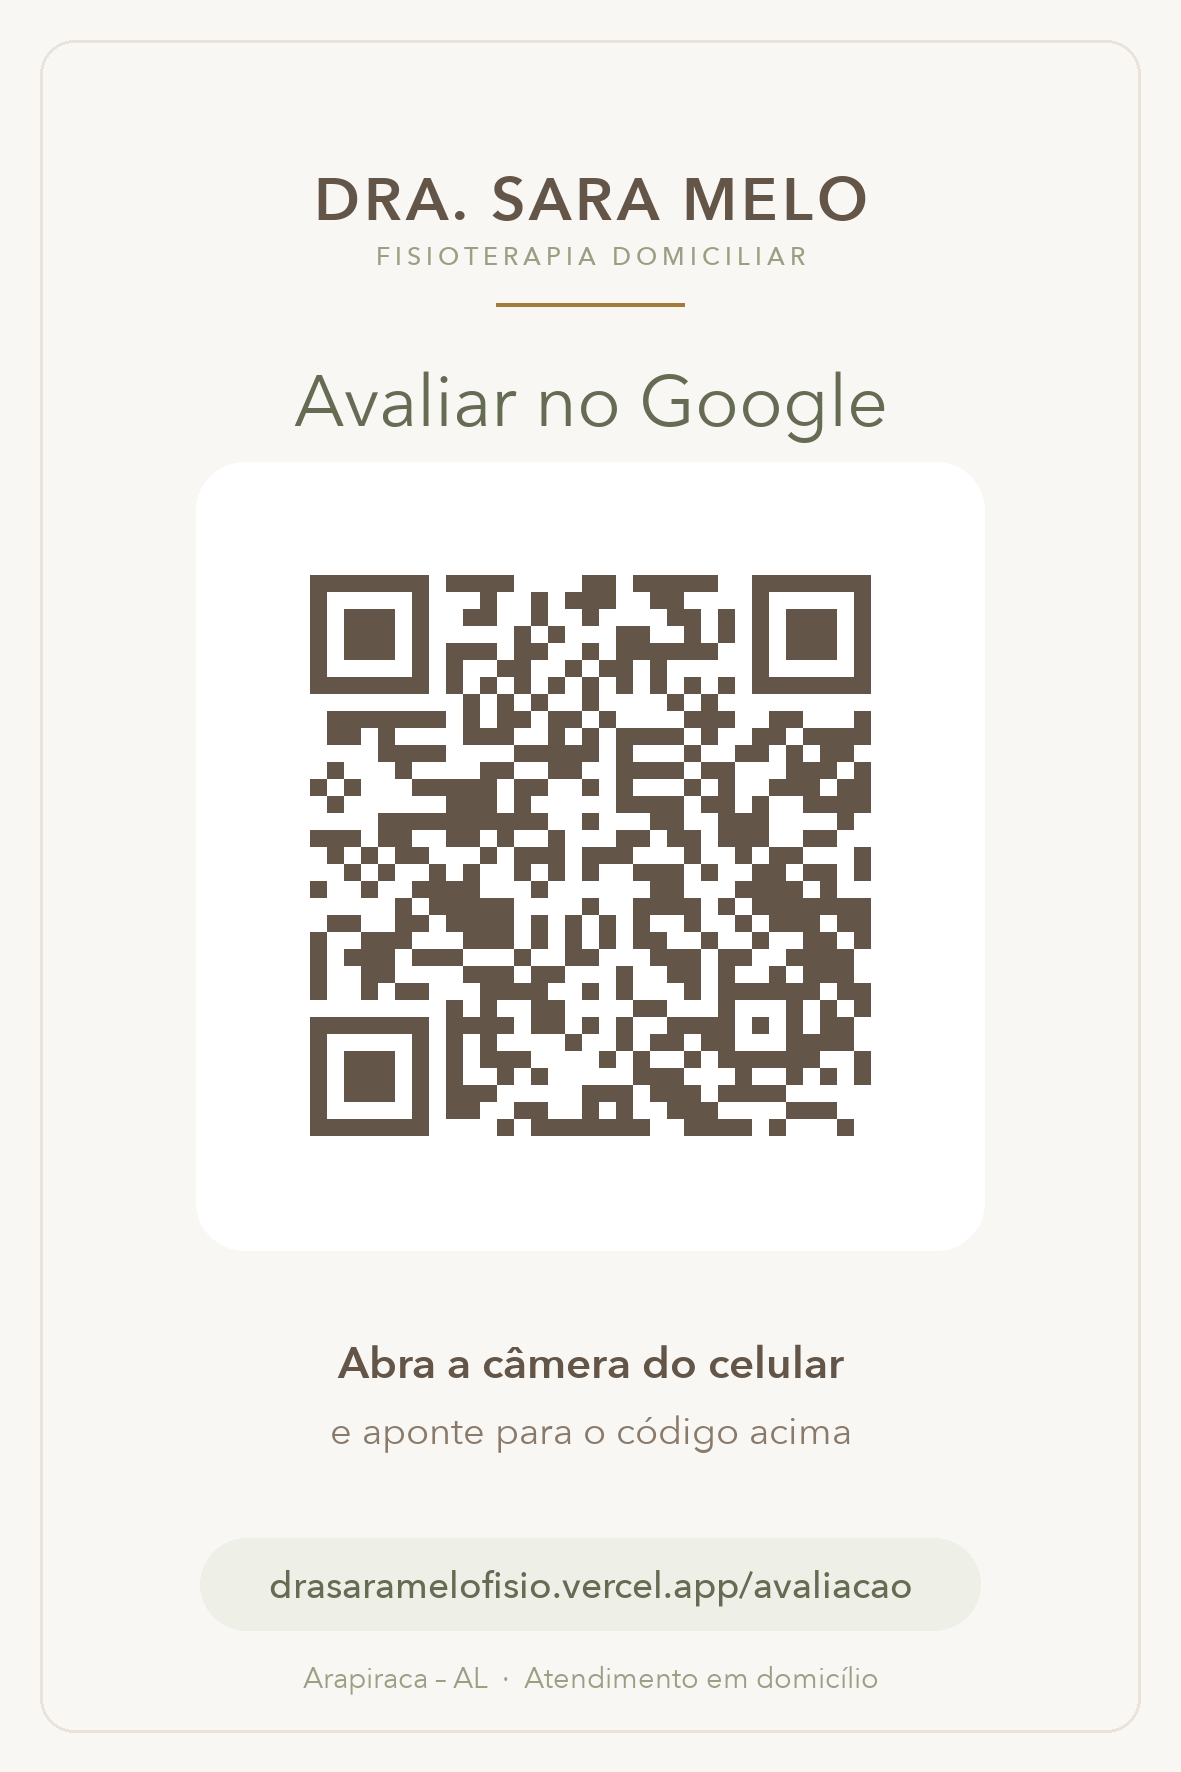
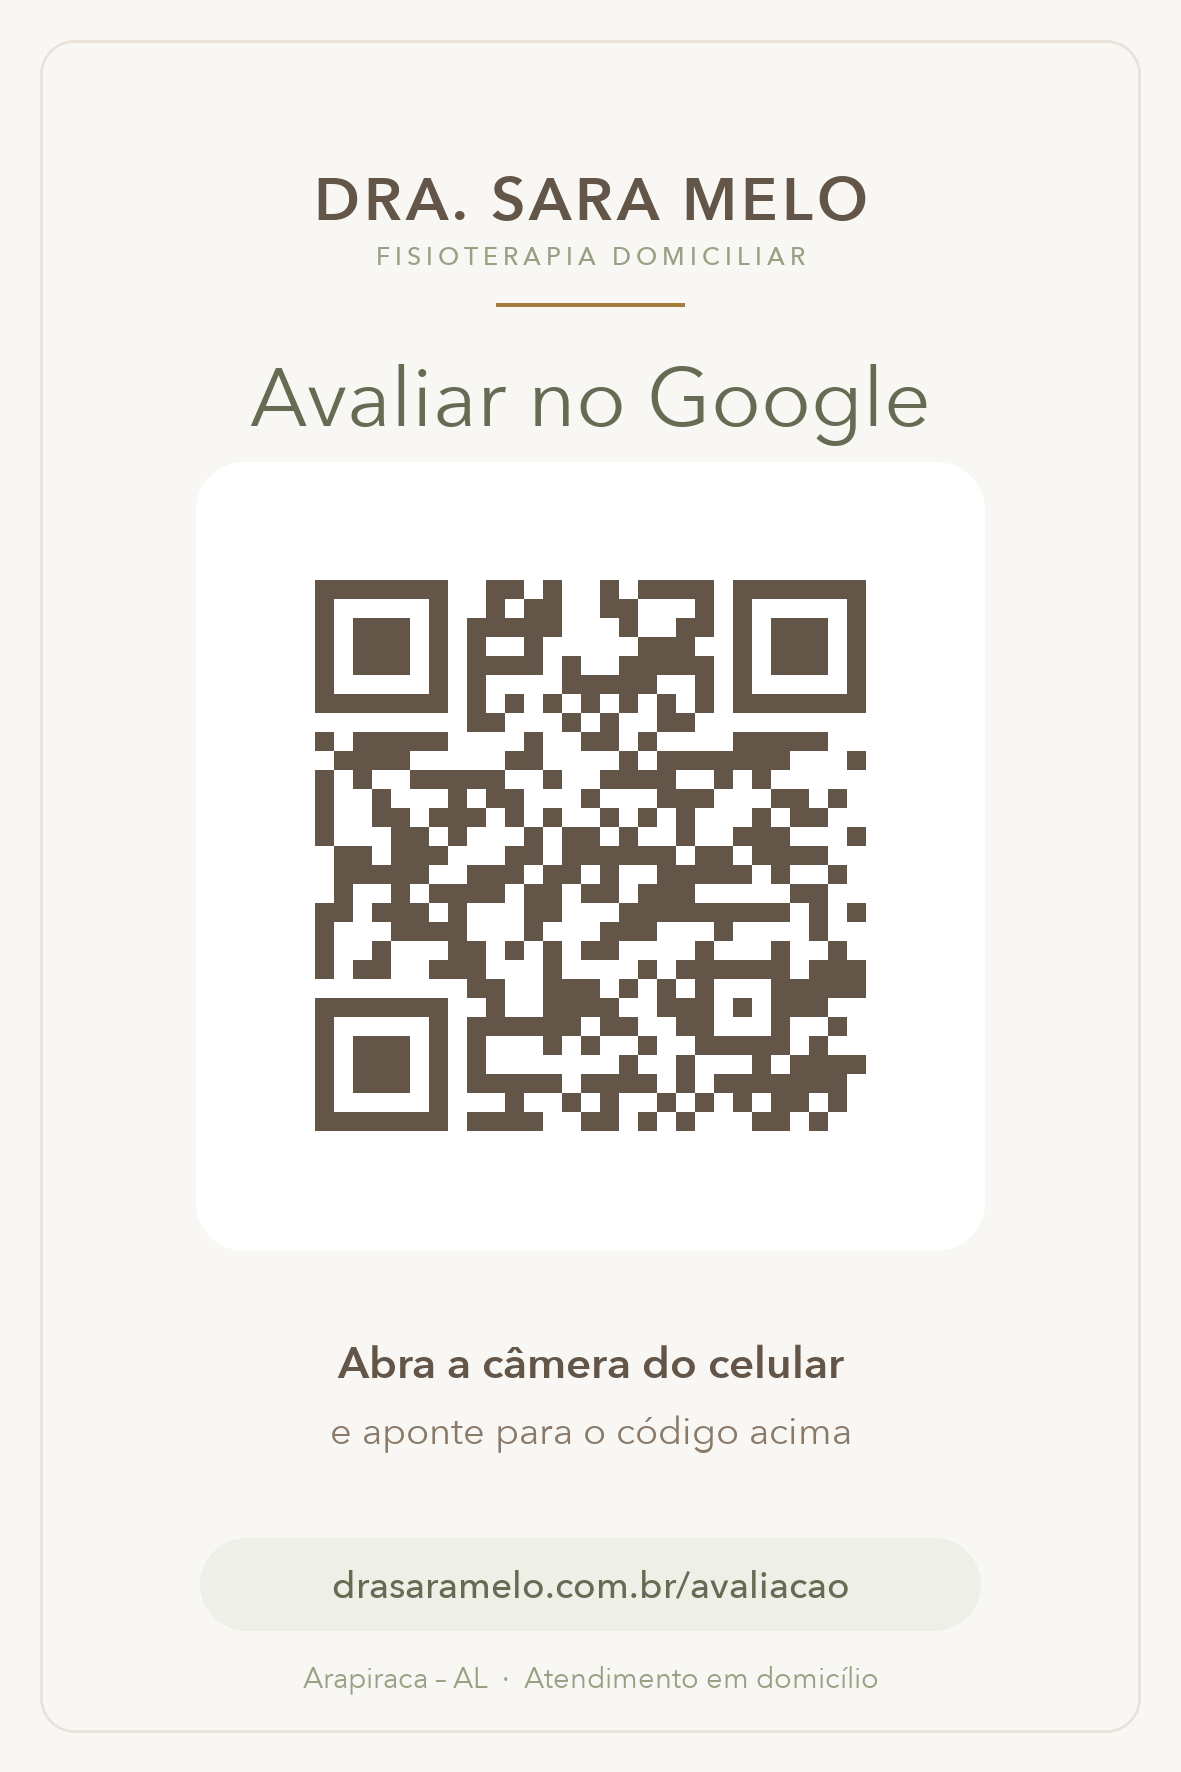
Horário e cobertura conforme a Sara, e QR codes no domínio novo
Horário: 08h às 11h, segunda a sexta — o que ela respondeu em 14/10.
Estava 07h às 18h no site, na seção de contato, no rodapé e nos dados
estruturados.

Cobertura: só Arapiraca, todos os bairros. Saem Craíbas, Lagoa da
Canoa, Coité do Nóia e Girau do Ponciano da lista e do areaServed —
aquelas cidades vieram do meu rascunho, não da fala dela.

QR codes: site, linktree e avaliação regerados para drasaramelo.com.br.
O de WhatsApp não mudou, porque aponta para wa.me. Os três novos foram
verificados módulo a módulo contra a URL de destino. O título do cartão
agora se ajusta sozinho para não encostar na moldura do código.

Também aponta o "Voltar para o site" de /avaliacao para o domínio novo.

Changed region(s): [[0.2439, 0.3104, 0.7621, 0.6518], [0.2134, 0.1862, 0.7925, 0.2483], [0.2439, 0.8691, 0.7621, 0.9001]]

diff --git a/index-hero-centralizado.html b/index-hero-centralizado.html
@@ -40,11 +40,7 @@
       "addressCountry": "BR"
     },
     "areaServed": [
-      { "@type": "City", "name": "Arapiraca" },
-      { "@type": "City", "name": "Craíbas" },
-      { "@type": "City", "name": "Coité do Nóia" },
-      { "@type": "City", "name": "Lagoa da Canoa" },
-      { "@type": "City", "name": "Girau do Ponciano" }
+      { "@type": "City", "name": "Arapiraca" }
     ],
     "availableService": [
       { "@type": "MedicalTherapy", "name": "Reabilitação pós-AVC em domicílio" },
@@ -56,8 +52,8 @@
     "openingHoursSpecification": [{
       "@type": "OpeningHoursSpecification",
       "dayOfWeek": ["Monday", "Tuesday", "Wednesday", "Thursday", "Friday"],
-      "opens": "07:00",
-      "closes": "18:00"
+      "opens": "08:00",
+      "closes": "11:00"
     }],
     "sameAs": ["https://www.instagram.com/fisio.saramello/"]
   }
@@ -934,10 +930,9 @@
             Onde eu atendo
           </h2>
           <p class="mt-8 text-base leading-[1.85] text-bark-600">
-            Atendo em domicílio em <strong class="font-semibold text-bark-800">Arapiraca</strong> e em cidades da região. Se o seu bairro não estiver na lista, me pergunte mesmo assim — dependendo da agenda e da distância, consigo encaixar.
+            Atendo em domicílio em <strong class="font-semibold text-bark-800">Arapiraca</strong>, em todos os bairros. Se você não tem certeza se chego até a sua rua, me pergunte — dependendo da agenda e da distância, consigo encaixar.
           </p>
 
-          <!-- CONFERIR: bairros reais atendidos -->
           <div class="mt-8 flex flex-wrap gap-2">
             <span class="rounded-full border border-sand-400 bg-white/80 px-4 py-2 text-sm text-bark-600">Centro</span>
             <span class="rounded-full border border-sand-400 bg-white/80 px-4 py-2 text-sm text-bark-600">Alto do Cruzeiro</span>
@@ -946,10 +941,6 @@
             <span class="rounded-full border border-sand-400 bg-white/80 px-4 py-2 text-sm text-bark-600">Primavera</span>
             <span class="rounded-full border border-sand-400 bg-white/80 px-4 py-2 text-sm text-bark-600">Santa Edwiges</span>
             <span class="rounded-full border border-sand-400 bg-white/80 px-4 py-2 text-sm text-bark-600">Senador Arnon de Melo</span>
-            <span class="rounded-full border border-sand-400 bg-white/80 px-4 py-2 text-sm text-bark-600">Craíbas</span>
-            <span class="rounded-full border border-sand-400 bg-white/80 px-4 py-2 text-sm text-bark-600">Lagoa da Canoa</span>
-            <span class="rounded-full border border-sand-400 bg-white/80 px-4 py-2 text-sm text-bark-600">Coité do Nóia</span>
-            <span class="rounded-full border border-sand-400 bg-white/80 px-4 py-2 text-sm text-bark-600">Girau do Ponciano</span>
           </div>
 
           <a href="#" data-whatsapp data-message="Olá, Sara! Moro em ... e gostaria de saber se você atende no meu bairro."
@@ -1196,8 +1187,7 @@
               </span>
               <span>
                 <span class="block text-sm font-semibold text-bark-800">Horário de atendimento</span>
-                <!-- CONFERIR horário real com a Sara -->
-                <span class="mt-1 block text-sm leading-relaxed text-bark-600">Segunda a sexta-feira, das 07h às 18h.</span>
+                      <span class="mt-1 block text-sm leading-relaxed text-bark-600">Segunda a sexta-feira, das 08h às 11h.</span>
               </span>
             </li>
 
@@ -1413,8 +1403,8 @@
         <div>
           <h3 class="titulo text-lg text-bark-800">Contato</h3>
           <ul class="mt-5 space-y-3 text-sm text-bark-600">
-            <li>Segunda a sexta, das 07h às 18h</li>
-            <li>Atendimento domiciliar &middot; Arapiraca &ndash; AL e região</li>
+            <li>Segunda a sexta, das 08h às 11h</li>
+            <li>Atendimento domiciliar &middot; Arapiraca &ndash; AL</li>
             <li><a href="#" data-whatsapp class="font-medium text-gold-700 transition hover:text-gold-500">WhatsApp: (82) 99842-7638</a></li>
             <li><a href="mailto:Dr.saramello@gmail.com" class="break-all transition hover:text-gold-700">Dr.saramello@gmail.com</a></li>
           </ul>

diff --git a/index.html b/index.html
@@ -40,11 +40,7 @@
       "addressCountry": "BR"
     },
     "areaServed": [
-      { "@type": "City", "name": "Arapiraca" },
-      { "@type": "City", "name": "Craíbas" },
-      { "@type": "City", "name": "Coité do Nóia" },
-      { "@type": "City", "name": "Lagoa da Canoa" },
-      { "@type": "City", "name": "Girau do Ponciano" }
+      { "@type": "City", "name": "Arapiraca" }
     ],
     "availableService": [
       { "@type": "MedicalTherapy", "name": "Reabilitação pós-AVC em domicílio" },
@@ -56,8 +52,8 @@
     "openingHoursSpecification": [{
       "@type": "OpeningHoursSpecification",
       "dayOfWeek": ["Monday", "Tuesday", "Wednesday", "Thursday", "Friday"],
-      "opens": "07:00",
-      "closes": "18:00"
+      "opens": "08:00",
+      "closes": "11:00"
     }],
     "sameAs": ["https://www.instagram.com/fisio.saramello/"]
   }
@@ -932,10 +928,9 @@
             Onde eu atendo
           </h2>
           <p class="mt-8 text-base leading-[1.85] text-bark-600">
-            Atendo em domicílio em <strong class="font-semibold text-bark-800">Arapiraca</strong> e em cidades da região. Se o seu bairro não estiver na lista, me pergunte mesmo assim — dependendo da agenda e da distância, consigo encaixar.
+            Atendo em domicílio em <strong class="font-semibold text-bark-800">Arapiraca</strong>, em todos os bairros. Se você não tem certeza se chego até a sua rua, me pergunte — dependendo da agenda e da distância, consigo encaixar.
           </p>
 
-          <!-- CONFERIR: bairros reais atendidos -->
           <div class="mt-8 flex flex-wrap gap-2">
             <span class="rounded-full border border-sand-400 bg-white/80 px-4 py-2 text-sm text-bark-600">Centro</span>
             <span class="rounded-full border border-sand-400 bg-white/80 px-4 py-2 text-sm text-bark-600">Alto do Cruzeiro</span>
@@ -944,10 +939,6 @@
             <span class="rounded-full border border-sand-400 bg-white/80 px-4 py-2 text-sm text-bark-600">Primavera</span>
             <span class="rounded-full border border-sand-400 bg-white/80 px-4 py-2 text-sm text-bark-600">Santa Edwiges</span>
             <span class="rounded-full border border-sand-400 bg-white/80 px-4 py-2 text-sm text-bark-600">Senador Arnon de Melo</span>
-            <span class="rounded-full border border-sand-400 bg-white/80 px-4 py-2 text-sm text-bark-600">Craíbas</span>
-            <span class="rounded-full border border-sand-400 bg-white/80 px-4 py-2 text-sm text-bark-600">Lagoa da Canoa</span>
-            <span class="rounded-full border border-sand-400 bg-white/80 px-4 py-2 text-sm text-bark-600">Coité do Nóia</span>
-            <span class="rounded-full border border-sand-400 bg-white/80 px-4 py-2 text-sm text-bark-600">Girau do Ponciano</span>
           </div>
 
           <a href="#" data-whatsapp data-message="Olá, Sara! Moro em ... e gostaria de saber se você atende no meu bairro."
@@ -1194,8 +1185,7 @@
               </span>
               <span>
                 <span class="block text-sm font-semibold text-bark-800">Horário de atendimento</span>
-                <!-- CONFERIR horário real com a Sara -->
-                <span class="mt-1 block text-sm leading-relaxed text-bark-600">Segunda a sexta-feira, das 07h às 18h.</span>
+                      <span class="mt-1 block text-sm leading-relaxed text-bark-600">Segunda a sexta-feira, das 08h às 11h.</span>
               </span>
             </li>
 
@@ -1411,8 +1401,8 @@
         <div>
           <h3 class="titulo text-lg text-bark-800">Contato</h3>
           <ul class="mt-5 space-y-3 text-sm text-bark-600">
-            <li>Segunda a sexta, das 07h às 18h</li>
-            <li>Atendimento domiciliar &middot; Arapiraca &ndash; AL e região</li>
+            <li>Segunda a sexta, das 08h às 11h</li>
+            <li>Atendimento domiciliar &middot; Arapiraca &ndash; AL</li>
             <li><a href="#" data-whatsapp class="font-medium text-gold-700 transition hover:text-gold-500">WhatsApp: (82) 99842-7638</a></li>
             <li><a href="mailto:Dr.saramello@gmail.com" class="break-all transition hover:text-gold-700">Dr.saramello@gmail.com</a></li>
           </ul>

diff --git a/avaliacao/index.html b/avaliacao/index.html
@@ -40,7 +40,7 @@
     <h1>Levando você para a avaliação no Google</h1>
     <p>Se a página não abrir sozinha em alguns segundos, é só tocar no botão.</p>
     <a class="btn" href="https://g.page/r/CRogDnTcfRIJECE/review">Avaliar a Dra. Sara</a>
-    <a class="volta" href="https://drasaramelofisio.vercel.app">Voltar para o site</a>
+    <a class="volta" href="https://drasaramelo.com.br">Voltar para o site</a>
   </main>
   <script>
     location.replace('https://g.page/r/CRogDnTcfRIJECE/review');

diff --git a/qrcodes/LEIA-ME.md b/qrcodes/LEIA-ME.md
@@ -21,21 +21,24 @@ confiável a um palmo de distância.
 
 ## Para onde cada um aponta
 
-- **Linktree** → https://drasaramelofisio.vercel.app/linktree
-- **Site** → https://drasaramelofisio.vercel.app
+- **Linktree** → https://drasaramelo.com.br/linktree
+- **Site** → https://drasaramelo.com.br
 - **WhatsApp** → abre a conversa com a mensagem "Olá, Sara! Gostaria de agendar uma avaliação."
-- **Avaliação** → https://drasaramelofisio.vercel.app/avaliacao, que redireciona para
-  o Google
+- **Avaliação** → https://drasaramelo.com.br/avaliacao, que redireciona para o Google
 
 ## Por que o QR de avaliação não aponta direto para o Google
 
-Ele passa por `drasaramelofisio.vercel.app/avaliacao`, que redireciona. Assim o
+Ele passa por `drasaramelo.com.br/avaliacao`, que redireciona. Assim o
 cartão impresso continua valendo se o link do Google mudar — é só alterar o
 redirecionamento. Apontando direto para o `g.page`, qualquer mudança obrigaria a
 reimprimir tudo.
 
-## Se algum link mudar
+## Histórico
 
-Os QR apontam para URLs fixas. Se o site sair do `.vercel.app` para um domínio
-próprio, os três precisam ser gerados de novo — vale imprimir pouca quantidade
-até o domínio estar definido.
+Em 18/11/2026 o site passou para o domínio próprio **drasaramelo.com.br**. Os QR
+de site, linktree e avaliação foram gerados de novo. O de WhatsApp não mudou,
+porque aponta para o `wa.me` e não depende do domínio.
+
+Os cartões antigos, impressos com `drasaramelofisio.vercel.app`, continuam
+funcionando — aquele endereço redireciona para o domínio novo. Mas passam a
+depender desse redirecionamento, então vale substituí-los quando puder.
